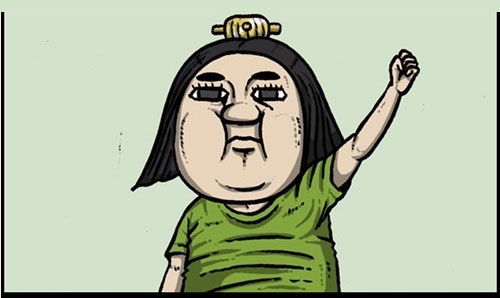
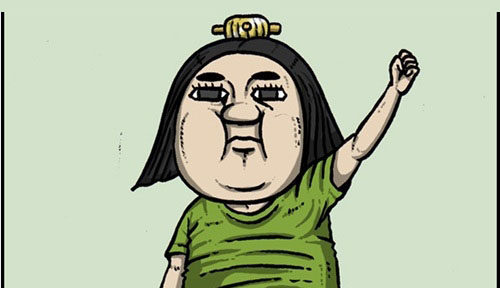
멤버페이지 추가, resume 추가

Changed region(s): [[0.0, 0.0312, 1.0, 1.0]]

diff --git a/team4/members/index.html b/team4/members/index.html
@@ -1,0 +1,161 @@
+<!DOCTYPE html>
+<html lang="ko">
+<head>
+  <meta charset="UTF-8">
+  <meta name="viewport" content="width=device-width, initial-scale=1.0">
+  <meta name="description" content="Team 04 모둠원들의 역할과 강점을 소개합니다.">
+  <title>Team 04 | Member Resume</title>
+  <link rel="preconnect" href="https://fonts.googleapis.com">
+  <link rel="preconnect" href="https://fonts.gstatic.com" crossorigin>
+  <link href="https://fonts.googleapis.com/css2?family=Dancing+Script:wght@500;600&family=Instrument+Serif:ital@0;1&family=Inter:wght@400;500;600;700&display=swap" rel="stylesheet">
+  <link rel="stylesheet" href="../../css/reset.css">
+  <link rel="stylesheet" href="../../css/style.css">
+  <link rel="stylesheet" href="../../css/team-common.css">
+  <link rel="stylesheet" href="../css/team4.css">
+  <script src="../../js/team.js" defer></script>
+</head>
+<body id="top" class="team-page team1-page member-resume-page">
+  <header class="team-header">
+    <div class="team-header-inner">
+      <a href="../index.html" class="team-brand">Our Class</a>
+      <nav class="team-nav" aria-label="모둠원 바로가기">
+        <a href="#park-design">박민주</a>
+        <a href="#ham-coding">함국주</a>
+        <a href="#yoon-design">윤희정</a>
+      </nav>
+      <a href="../index.html#members" class="home-button">Back to team</a>
+      <button type="button" class="team-menu-button" aria-label="모바일 메뉴 열기" aria-expanded="false">
+        <span></span><span></span><span></span>
+      </button>
+    </div>
+  </header>
+
+  <div class="team-menu-overlay" aria-hidden="true"></div>
+  <aside class="team-mobile-menu" aria-hidden="true">
+    <a href="#park-design">박민주</a>
+    <a href="#ham-coding">함국주</a>
+    <a href="#yoon-design">윤희정</a>
+    <a href="../index.html#members">Back to team</a>
+  </aside>
+
+  <main>
+    <section class="resume-hero">
+      <div class="team-inner resume-hero-inner">
+        <p class="team-eyebrow">TEAM 04 · CREATIVE CREW</p>
+        <h1>Three minds,<br><em>one direction.</em></h1>
+        <p>서로 다른 관점과 전문성을 연결해 더 나은 사용자 경험을 만듭니다. Team 04의 멤버를 소개합니다.</p>
+        <a class="resume-scroll-link" href="#kim-design">Meet the team <span aria-hidden="true">↓</span></a>
+      </div>
+    </section>
+
+    <section class="resume-list" aria-label="모둠원 소개">
+      <article class="resume-profile" id="park-design">
+        <div class="resume-number">01</div>
+        <div class="resume-portrait" aria-label="박민주 프로필 이미지 자리">
+          <span>
+            <img src="../images/member1.jpg" alt="minju">
+          </span>
+        </div>
+          <div class="resume-content">
+          <p class="resume-role">TEAM LEADER · WEB DESIGNER</p>
+          <h2>박민주</h2>
+          <p class="resume-quote">“브랜드의 가치를 디자인으로 완성합니다.”</p>
+          <p class="resume-description">브랜드의 가치를 효과적으로 전달하는<br>
+                감각적이고 완성도 높은 웹디자인을 추구합니다.</p>
+            <div class="resume-meta">
+              <span>Figma</span>
+              <span>Photoshop</span>
+              <span>Illustrator</span>
+              <span>HTML5</span>
+              <span>CSS3</span>
+              <span>JavaScript</span>
+            </div>
+          </div>
+          <div class="figma-resume-embed">
+            <div class="figma-embed-placeholder">
+              <span class="figma-embed-label">FIGMA DESIGN RESUME</span>
+              <strong>박민주의 디자인 이력서</strong>
+              <p><iframe style="border: 1px solid rgba(0, 0, 0, 0.1);" width="800" height="450" src="https://embed.figma.com/design/ndi5nu8KY8yi5irzC22aKW/%EB%94%94%EC%9E%90%EC%9D%B8%EC%9D%B4%EB%A0%A5%EC%84%9C?node-id=0-1&embed-host=share" allowfullscreen></iframe></p>
+              <!-- 박민주 Figma 이력서 링크 -->
+            </div>
+          </div>
+        </article>
+
+
+      <article class="resume-profile" id="ham-coding">
+        <div class="resume-number">02</div>
+        <div class="resume-portrait resume-portrait-alt" aria-label="함국주프로필 이미지 자리">
+          <span><img src="../images/member2.png" alt="함국주"></span>
+        </div>
+          <div class="resume-content">
+          <p class="resume-role">FRONT-END · PUBLISHING</p>
+          <h2>함국주</h2>
+          <p class="resume-quote">“좋은 디자인이 모든 화면에서 똑같이 빛나도록 구현합니다.”</p>
+          <p class="resume-description">디자인의 의도를 정확하게 구현하고<br>
+                사용자 중심의 반응형 웹을 만드는 퍼블리싱에 관심이 있습니다.</p>
+            <div class="resume-meta">
+              <span>Figma</span>
+              <span>Photoshop</span>
+              <span>Illustrator</span>
+              <span>HTML5</span>
+              <span>CSS3</span>
+              <span>JavaScript</span>
+            </div>
+          </div>
+          <div class="figma-resume-embed">
+            <div class="figma-embed-placeholder">
+              <span class="figma-embed-label">FIGMA DESIGN RESUME</span>
+              <strong>함국주 디자인 이력서</strong>
+              <p><iframe style="border: 1px solid rgba(0, 0, 0, 0.1);" width="800" height="450" src="https://embed.figma.com/design/PRBBWnkbvgaZYIZvRA4TFL/디자인-이력서?node-id=0-1&embed-host=share" allowfullscreen></iframe></p>
+              <!-- 함국주 Figma 이력서 링크 -->
+            </div>
+          </div>
+        </article>
+
+
+       <article class="resume-profile" id="yoon-design">
+        <div class="resume-number">03</div>
+        <div class="resume-portrait resume-portrait-warm" aria-label="윤희정 프로필 이미지 자리">
+          <span><img src="../images/member3.jpg" alt="윤희정"></span>
+        </div>
+          <div class="resume-content">
+          <p class="resume-role">WEB DESIGNER</p>
+          <h2>윤희정</h2>
+          <p class="resume-quote">“사용자의 경험을 고려한 직관적이고 완성도 높은 디자인을 추구합니다.”</p>
+          <p class="resume-description">사용자의 시선과 흐름을 고려한 직관적인 인터페이스를<br> 설계하는 것을 좋아합니다.</p>
+            <div class="resume-meta">
+              <span>Figma</span>
+              <span>Photoshop</span>
+              <span>Illustrator</span>
+              <span>HTML5</span>
+              <span>CSS3</span>
+              <span>JavaScript</span>
+            </div>
+          </div>
+          <div class="figma-resume-embed">
+            <div class="figma-embed-placeholder">
+              <span class="figma-embed-label">FIGMA DESIGN RESUME</span>
+              <strong>윤희정의 디자인 이력서</strong>
+              <p><iframe style="border: 1px solid rgba(0, 0, 0, 0.1);" width="800" height="450" src="https://embed.figma.com/design/GeRgon4dqlzoGPxBKtmfhN/디자인이력서?node-id=1-2&embed-host=share" allowfullscreen></iframe></p>
+              <!-- 윤희정 Figma 이력서 링크 -->
+            </div>
+          </div>
+        </article>
+    </section>
+
+    <section class="resume-closing">
+      <p>TEAM 01</p>
+      <h2>Different skills.<br>Shared ambition.</h2>
+      <a href="../index.html#members">팀 페이지로 돌아가기 <span aria-hidden="true">→</span></a>
+    </section>
+  </main>
+
+  <footer class="team-footer">
+    <p>© 2026 Our Class · Team 01</p>
+    <div class="team-footer-links">
+      <a href="../../index.html">Main</a>
+      <a href="#top">Back to top</a>
+    </div>
+  </footer>
+</body>
+</html>

diff --git a/team4/css/team4.css b/team4/css/team4.css
@@ -41,13 +41,67 @@
   z-index: 2;
 }
 
-/* 팀별로 원하는 스타일을 아래에 추가하세요. */
-/*
-.team1-page .team-hero-title {
-  font-style: italic;
+.resume-portrait > span {
+  display: block;
+  width: 100%;
+  height: 100%;
 }
 
-.team1-page .member-card {
-  border-radius: 8px;
+.resume-portrait > span > img {
+  display: block;
+  width: 100%;
+  height: 100%;
+  object-fit: cover;
+  object-position: center;
 }
-*/
+
+
+/* Member resume */
+.member-resume-page { background: #f1f0f7; }
+.member-resume-page .resume-hero { display: flex; align-items: flex-end; min-height: 88svh; padding: 150px 0 90px; color: #fff; background: radial-gradient(circle at 78% 24%, rgba(143,133,255,.58), transparent 30%), linear-gradient(135deg, #100c23 0%, #28204f 62%, #6f66d8 100%); }
+.member-resume-page .resume-hero-inner { position: relative; }
+.member-resume-page .resume-hero h1 { max-width: 900px; font-family: "Instrument Serif", serif; font-size: clamp(68px, 11vw, 148px); font-weight: 400; line-height: .83; letter-spacing: -.055em; }
+.member-resume-page .resume-hero h1 em { color: #d8d4ff; }
+.member-resume-page .resume-hero-inner > p:not(.team-eyebrow) { max-width: 570px; margin-top: 32px; color: rgba(255,255,255,.68); line-height: 1.8; }
+.member-resume-page .resume-scroll-link { display: inline-flex; gap: 18px; align-items: center; margin-top: 36px; padding-bottom: 8px; border-bottom: 1px solid rgba(255,255,255,.4); font-size: 13px; font-weight: 600; }
+.member-resume-page .resume-list { width: min(calc(100% - 48px), 1180px); margin: 0 auto; padding: 70px 0 130px; }
+.member-resume-page .resume-profile { display: grid; grid-template-columns: 70px minmax(250px, 420px) 1fr; gap: clamp(24px, 5vw, 74px); align-items: center; padding: 70px 0; border-bottom: 1px solid rgba(23,17,47,.14); scroll-margin-top: 78px; }
+.member-resume-page .resume-number { align-self: start; color: #8f85ff; font-size: 12px; font-weight: 700; letter-spacing: .15em; }
+.member-resume-page .resume-portrait { display: grid; place-items: center; aspect-ratio: 4 / 5; overflow: hidden; color: rgba(255,255,255,.8); background: linear-gradient(145deg, #aaa3ff, #312866); border-radius: 180px 180px 24px 24px; box-shadow: 0 28px 70px rgba(30,24,70,.2); }
+.member-resume-page .resume-portrait span { font-family: "Instrument Serif", serif; font-size: clamp(72px, 10vw, 130px); font-style: italic; }
+.member-resume-page .resume-portrait-alt { background: linear-gradient(145deg, #84c9c1, #1d565c); }
+.member-resume-page .resume-portrait-warm { background: linear-gradient(145deg, #e4ad94, #773e53); }
+.member-resume-page .resume-portrait-deep { background: linear-gradient(145deg, #a9a4c9, #25223d); }
+.member-resume-page .resume-role { color: #7569e8; font-size: 11px; font-weight: 700; letter-spacing: .17em; }
+.member-resume-page .resume-content h2 { margin-top: 13px; color: #17112f; font-family: "Instrument Serif", serif; font-size: clamp(48px, 6vw, 76px); font-weight: 400; letter-spacing: -.04em; }
+.member-resume-page .resume-quote { max-width: 580px; margin-top: 25px; color: #2d2940; font-size: 20px; font-weight: 600; line-height: 1.55; }
+.member-resume-page .resume-description { max-width: 600px; margin-top: 18px; color: #747080; font-size: 14px; line-height: 1.85; }
+.member-resume-page .resume-meta { display: flex; flex-wrap: wrap; gap: 8px; margin-top: 25px; }
+.member-resume-page .resume-meta span { padding: 7px 12px; border: 1px solid rgba(23,17,47,.14); border-radius: 999px; color: #5e586c; font-size: 11px; }
+.member-resume-page .figma-resume-embed { grid-column: 2 / -1; width: 100%; margin-top: 14px; }
+.member-resume-page .figma-embed-placeholder { display: flex; min-height: 360px; padding: 42px; border: 1px dashed rgba(117,105,232,.42); border-radius: 24px; align-items: center; justify-content: center; flex-direction: column; text-align: center; background: rgba(255,255,255,.5); }
+.member-resume-page .figma-embed-label { color: #7569e8; font-size: 10px; font-weight: 700; letter-spacing: .18em; }
+.member-resume-page .figma-embed-placeholder strong { margin-top: 15px; color: #17112f; font-family: "Instrument Serif", serif; font-size: clamp(30px, 4vw, 46px); font-weight: 400; }
+.member-resume-page .figma-embed-placeholder p { margin-top: 12px; color: #777180; font-size: 13px; line-height: 1.7; }
+.member-resume-page .figma-resume-embed iframe { display: block; width: 100%; height: min(78vh, 760px); min-height: 520px; border: 1px solid rgba(23,17,47,.12); border-radius: 24px; background: #fff; }
+.member-resume-page .resume-closing { padding: 120px 24px; text-align: center; color: #fff; background: #17112f; }
+.member-resume-page .resume-closing > p { color: #8f85ff; font-size: 11px; font-weight: 700; letter-spacing: .22em; }
+.member-resume-page .resume-closing h2 { margin-top: 24px; font-family: "Instrument Serif", serif; font-size: clamp(54px, 8vw, 100px); font-weight: 400; line-height: .95; }
+.member-resume-page .resume-closing a { display: inline-flex; gap: 20px; margin-top: 42px; padding: 15px 24px; border: 1px solid rgba(255,255,255,.24); border-radius: 999px; font-size: 13px; }
+
+@media (max-width: 820px) {
+  .member-resume-page .resume-profile { grid-template-columns: 38px 1fr; }
+  .member-resume-page .resume-portrait { grid-column: 2; }
+  .member-resume-page .resume-content { grid-column: 2; }
+  .member-resume-page .figma-resume-embed { grid-column: 2; }
+}
+
+@media (max-width: 560px) {
+  .member-resume-page .resume-list { width: min(calc(100% - 32px), 1180px); }
+  .member-resume-page .resume-profile { grid-template-columns: 1fr; gap: 20px; padding: 56px 0; }
+  .member-resume-page .resume-number, .member-resume-page .resume-portrait, .member-resume-page .resume-content, .member-resume-page .figma-resume-embed { grid-column: 1; }
+  .member-resume-page .resume-portrait { width: 100%; }
+  .member-resume-page .figma-embed-placeholder { min-height: 280px; padding: 28px 20px; }
+  .member-resume-page .figma-resume-embed iframe { height: 68vh; min-height: 420px; }
+}
+

diff --git a/team4/index.html b/team4/index.html
@@ -197,6 +197,7 @@
                 <span>CSS3</span>
                 <span>JavaScript</span>
               </div>
+              <span class="member-resume-link">Design Resume</span>
             </div>
           </article>
 
@@ -221,6 +222,7 @@
                 <span>CSS3</span>
                 <span>JavaScript</span>
               </div>
+              <span class="member-resume-link">Design Resume</span>
             </div>
           </article>
 
@@ -245,28 +247,11 @@
                 <span>CSS3</span>
                 <span>JavaScript</span>
               </div>
+              <span class="member-resume-link">Design Resume</span>
             </div>
           </article>
-<!-- 
-          <article class="member-card team-reveal">
-            <div class="member-photo"> -->
-              <!-- 예: <img src="./images/member4.jpg" alt="최그래픽 프로필 사진"> -->
-            <!-- </div>
+  
 
-            <div class="member-info">
-              <p class="member-role">GRAPHIC · VISUAL DESIGN</p>
-              <h3 class="member-name">최그래픽</h3>
-              <p class="member-copy">
-                색상과 이미지, 타이포그래피를 활용해
-                프로젝트의 개성을 표현하는 것을 좋아합니다.
-              </p>
-              <div class="member-skills">
-                <span>Illustrator</span>
-                <span>Branding</span>
-                <span>Graphic</span>
-              </div>
-            </div>
-          </article> -->
         </div>
       </div>
     </section>